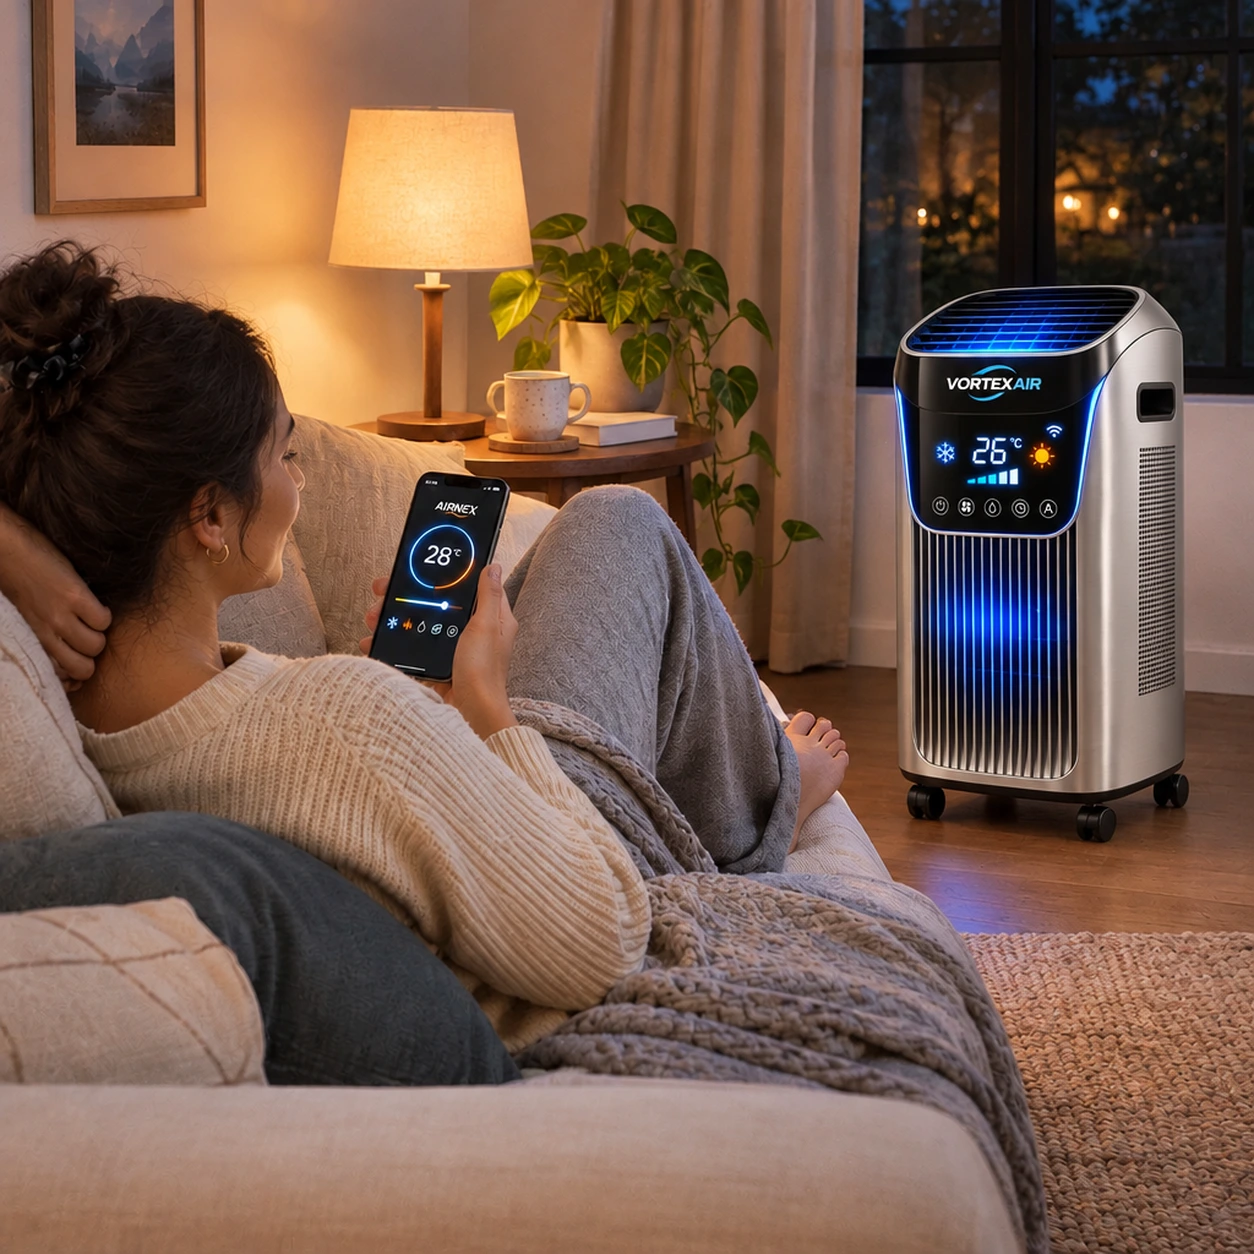
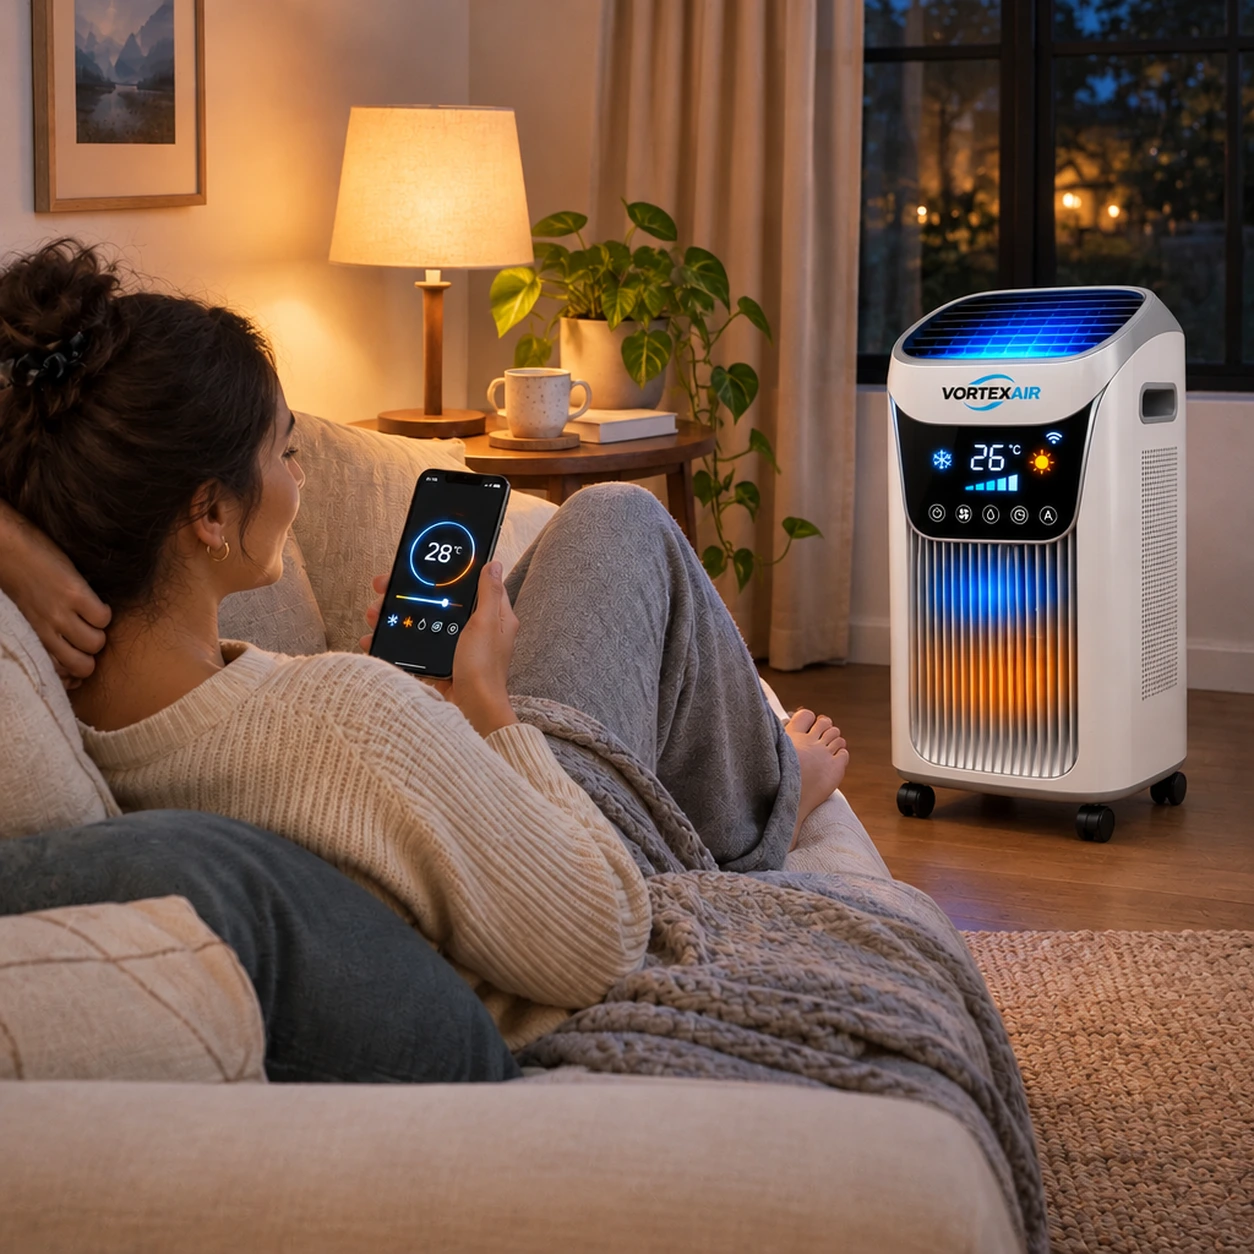
VORTEXAIR: restyle prodotto in bianco (hero + 6 scene rigenerate)

diff --git a/it/vortexair/landing.html b/it/vortexair/landing.html
@@ -28,7 +28,7 @@
  "@context": "https://schema.org",
  "@type": "Product",
  "name": "VORTEXAIR™",
- "image": "https://devicefindhub.com/assets/img/products/vortexair/hero.webp?v=083075fe",
+ "image": "https://devicefindhub.com/assets/img/products/vortexair/hero.webp?v=5c765b3c",
  "description": "Condizionatore portatile 4-in-1 che scalda fino a 28°C la stanza in cui vivi in 7 minuti con meno di 0,64€ al giorno, su ruote, senza tubi né installazione.",
  "brand": { "@type": "Brand", "name": "VORTEXAIR" },
  "offers": {
@@ -121,7 +121,7 @@ window.SITE_CONFIG = {
 <h1>In 7 Minuti la Tua Stanza è a 28°C, <span class="trim-green-highlight">Senza Accendere la Caldaia di Tutta la Casa</span></h1>
 <p class="trim-subtitle">Le piastre ceramiche portano <strong>VORTEXAIR™</strong> a <strong>28°C in 7 minuti</strong> proprio dove sei tu, a <strong>meno di 0,64€ al giorno</strong>: su ruote a 360°, con <strong>zero tubi e zero tecnici</strong> alla porta.</p>
 <div class="trim-hero__image mobile-only">
-<img alt="VORTEXAIR™ — condizionatore portatile 4-in-1 che scalda e raffredda" decoding="async" fetchpriority="high" height="1000" src="/assets/img/products/vortexair/hero.webp?v=083075fe" width="1000"/>
+<img alt="VORTEXAIR™ — condizionatore portatile 4-in-1 che scalda e raffredda" decoding="async" fetchpriority="high" height="1000" src="/assets/img/products/vortexair/hero.webp?v=5c765b3c" width="1000"/>
 </div>
 <div class="c4x-price-box">
 <div class="c4x-price-top">
@@ -142,7 +142,7 @@ window.SITE_CONFIG = {
 <a class="trim-cta" href="#FORM">ORDINA ORA</a>
 </div>
 <div class="trim-hero__image desktop-only">
-<img alt="VORTEXAIR™ — convettore 4-in-1 a parete che scalda e raffredda" decoding="async" fetchpriority="high" height="1000" src="/assets/img/products/vortexair/hero.webp?v=083075fe" width="1000"/>
+<img alt="VORTEXAIR™ — convettore 4-in-1 a parete che scalda e raffredda" decoding="async" fetchpriority="high" height="1000" src="/assets/img/products/vortexair/hero.webp?v=5c765b3c" width="1000"/>
 </div>
 </div>
 </section>
@@ -211,7 +211,7 @@ window.SITE_CONFIG = {
 </div>
 <div class="aex-mech__grid">
 <div class="aex-mech__img">
-<img alt="VORTEXAIR portatile: piastre ceramiche e A+++ che scaldano a basso consumo" decoding="async" height="1000" loading="lazy" src="/assets/img/products/vortexair/meccanismo.webp?v=66e8dd57" width="1000"/>
+<img alt="VORTEXAIR portatile: piastre ceramiche e A+++ che scaldano a basso consumo" decoding="async" height="1000" loading="lazy" src="/assets/img/products/vortexair/meccanismo.webp?v=b651dcb8" width="1000"/>
 </div>
 <div class="aex-mech__text">
 <p class="aex-mech__lead">La caldaia scalda metri cubi che non usi. VORTEXAIR concentra il calore dove sei tu e usa solo l'energia che serve.</p>
@@ -230,7 +230,7 @@ window.SITE_CONFIG = {
 <div class="t77bn-rows">
 <div class="t77bn-row">
 <div class="t77bn-media">
-<img alt="Caldo immediato nella stanza, bolletta sotto controllo" decoding="async" height="400" loading="lazy" src="/assets/img/products/vortexair/benefit1.webp?v=653e41cf" width="400"/>
+<img alt="Caldo immediato nella stanza, bolletta sotto controllo" decoding="async" height="400" loading="lazy" src="/assets/img/products/vortexair/benefit1.webp?v=3423bdf0" width="400"/>
 </div>
 <div class="t77bn-c">
 <div class="t77bn-ic">🔥</div>
@@ -240,7 +240,7 @@ window.SITE_CONFIG = {
 </div>
 <div class="t77bn-row t77bn-row--rev">
 <div class="t77bn-media">
-<img alt="Zero installazione: attacchi alla presa e accendi" decoding="async" height="600" loading="lazy" src="/assets/img/products/vortexair/benefit2.webp?v=e219bb3a" width="600"/>
+<img alt="Zero installazione: attacchi alla presa e accendi" decoding="async" height="600" loading="lazy" src="/assets/img/products/vortexair/benefit2.webp?v=c48b8238" width="600"/>
 </div>
 <div class="t77bn-c">
 <div class="t77bn-ic">🔧</div>
@@ -250,7 +250,7 @@ window.SITE_CONFIG = {
 </div>
 <div class="t77bn-row">
 <div class="t77bn-media">
-<img alt="Su ruote 360°, il calore ti segue da una stanza all'altra" decoding="async" height="400" loading="lazy" src="/assets/img/products/vortexair/benefit3.webp?v=12239164" width="400"/>
+<img alt="Su ruote 360°, il calore ti segue da una stanza all'altra" decoding="async" height="400" loading="lazy" src="/assets/img/products/vortexair/benefit3.webp?v=b3e94d77" width="400"/>
 </div>
 <div class="t77bn-c">
 <div class="t77bn-ic">🔄</div>
@@ -260,7 +260,7 @@ window.SITE_CONFIG = {
 </div>
 <div class="t77bn-row t77bn-row--rev">
 <div class="t77bn-media">
-<img alt="4-in-1: scalda, raffredda, deumidifica e ventila tutto l'anno" decoding="async" height="400" loading="lazy" src="/assets/img/products/vortexair/benefit4.webp?v=497c5e07" width="400"/>
+<img alt="4-in-1: scalda, raffredda, deumidifica e ventila tutto l'anno" decoding="async" height="400" loading="lazy" src="/assets/img/products/vortexair/benefit4.webp?v=544f6618" width="400"/>
 </div>
 <div class="t77bn-c">
 <div class="t77bn-ic">🌬</div>
@@ -270,7 +270,7 @@ window.SITE_CONFIG = {
 </div>
 <div class="t77bn-row">
 <div class="t77bn-media">
-<img alt="Lo comandi dal telefono, silenzioso e sicuro" decoding="async" height="600" loading="lazy" src="/assets/img/products/vortexair/benefit5.webp?v=2b996fe1" width="600"/>
+<img alt="Lo comandi dal telefono, silenzioso e sicuro" decoding="async" height="600" loading="lazy" src="/assets/img/products/vortexair/benefit5.webp?v=bc55512b" width="600"/>
 </div>
 <div class="t77bn-c">
 <div class="t77bn-ic">📱</div>
@@ -293,7 +293,7 @@ window.SITE_CONFIG = {
 <p>2 anni di garanzia + reso gratuito entro 30 giorni</p>
 </div>
 <div class="aex-kit__hero">
-<img alt="Il kit completo VORTEXAIR™ nel tuo pacco" decoding="async" height="1000" loading="lazy" src="/assets/img/products/vortexair/hero.webp?v=083075fe" width="1000"/>
+<img alt="Il kit completo VORTEXAIR™ nel tuo pacco" decoding="async" height="1000" loading="lazy" src="/assets/img/products/vortexair/hero.webp?v=5c765b3c" width="1000"/>
 </div>
 <div class="aex-kit__list"><div class="aex-kit__item"><span class="ic">🔥</span><div class="tx"><strong>1 VORTEXAIR™ 4-in-1</strong><span>Il condizionatore portatile A+++ che scalda, raffredda, deumidifica e ventila, fino a 120 m².</span></div></div><div class="aex-kit__item"><span class="ic">🛞</span><div class="tx"><strong>Ruote 360° + maniglie (INCLUSE <em>GRATIS</em>)</strong><span>Lo sposti di stanza in stanza senza fatica: il calore ti segue dove vai.</span></div></div><div class="aex-kit__item"><span class="ic">🎛</span><div class="tx"><strong>Telecomando + touch screen</strong><span>Regoli temperatura, modalità e timer dal divano, con display chiaro e immediato.</span></div></div><div class="aex-kit__item"><span class="ic">🌬</span><div class="tx"><strong>Filtro lavabile</strong><span>Aria più pulita, meno umidità e muffa; lo sciacqui e lo rimetti, senza ricambi da comprare.</span></div></div><div class="aex-kit__item"><span class="ic">📱</span><div class="tx"><strong>App Wi-Fi</strong><span>Accendi e programmi VORTEXAIR dal telefono, ovunque tu sia: trovi la stanza già alla temperatura giusta.</span></div></div><div class="aex-kit__item"><span class="ic">🔌</span><div class="tx"><strong>Cavo per presa standard</strong><span>Si collega a una normale presa di corrente: nessun impianto dedicato, nessun elettricista.</span></div></div><div class="aex-kit__item"><span class="ic">📖</span><div class="tx"><strong>Manuale in italiano</strong><span>Istruzioni semplici passo-passo per usarlo da subito, senza complicazioni.</span></div></div><div class="aex-kit__item"><span class="ic">🛡</span><div class="tx"><strong>2 anni di garanzia + reso gratuito 30 giorni</strong><span>Lo provi a casa tua senza rischi: se non ti convince, lo restituisci gratis entro 30 giorni.</span></div></div></div>
 <div class="aex-cta-wrap"><a class="t77bn-cta" href="#FORM">ORDINA ORA</a></div>
